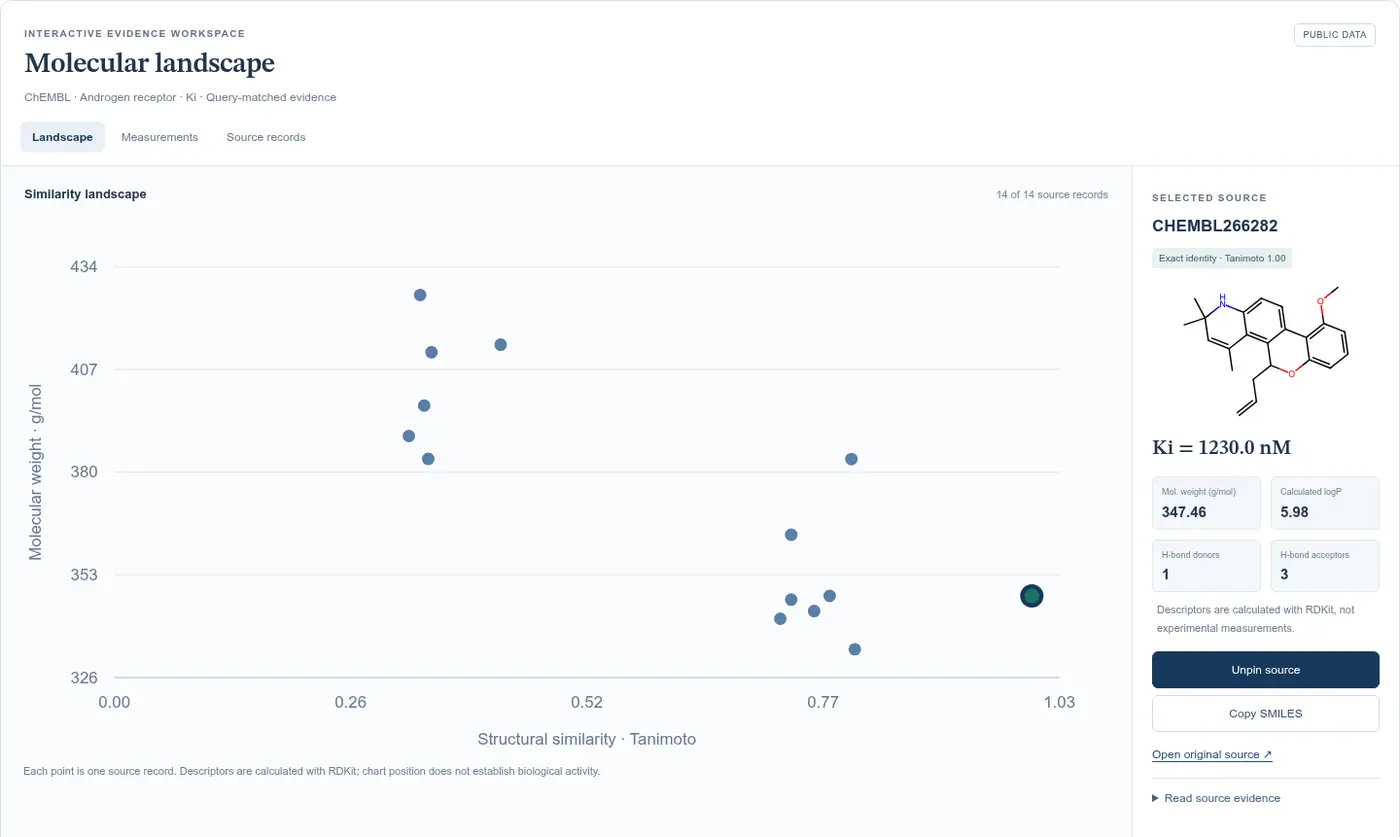
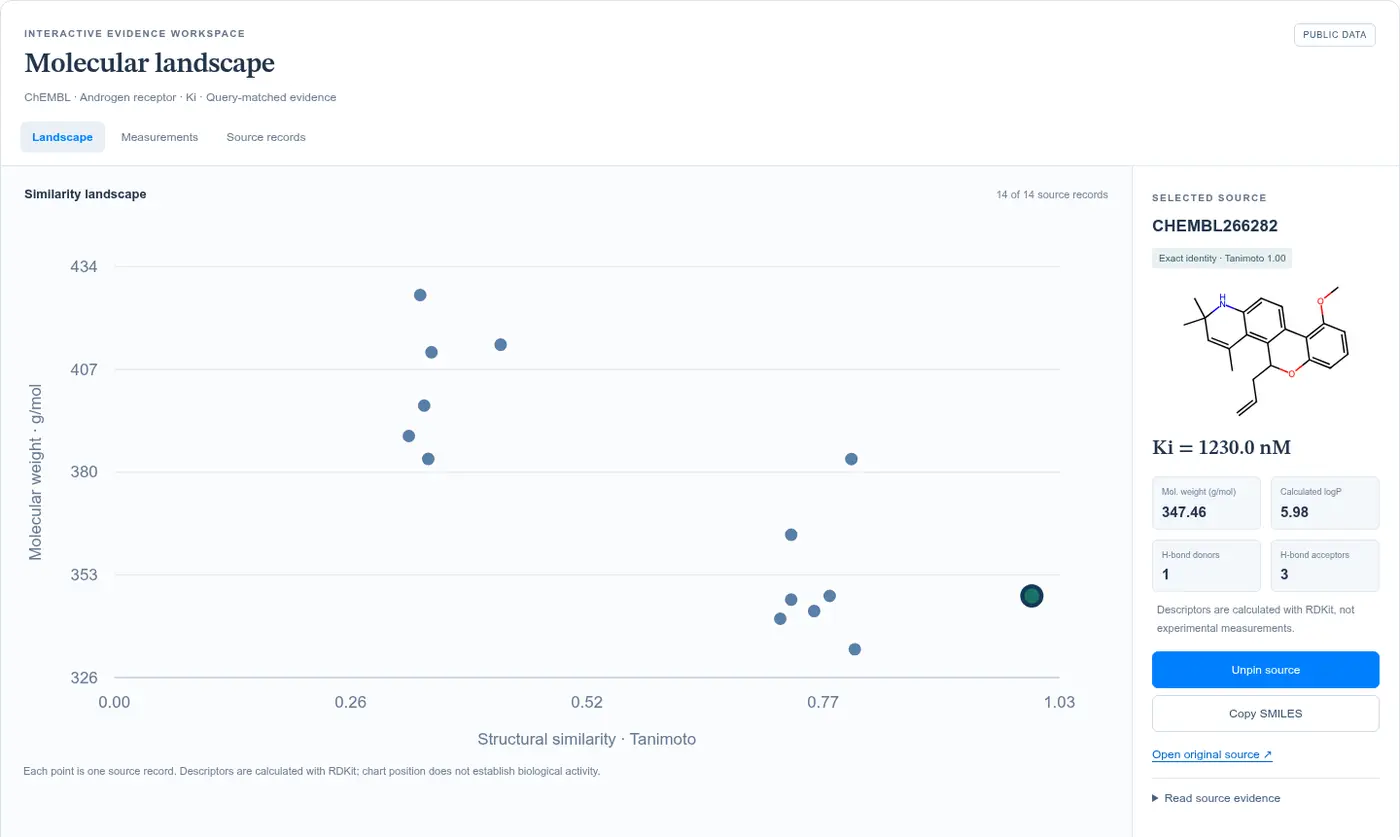
Deploying to gh-pages from @ aralcimcim/aralcimcim.github.io@334273545612d0a32a05c3c71e3aa43ca3021812 🚀

Changed region(s): [[0.7986, 0.7766, 1.0, 0.8387], [0.8293, 0.9008, 0.8907, 0.9319], [0.0307, 0.1553, 0.0614, 0.1864]]

diff --git a/assets/jupyter/blog.ipynb.html b/assets/jupyter/blog.ipynb.html
@@ -1,4 +1,4 @@
-<!DOCTYPE html> <html lang="en"> <head><meta charset="utf-8"/> <meta content="width=device-width, initial-scale=1.0" name="viewport"/> <title>jekyll-jupyter-notebook20261022-3269-c7zyde</title><script src="https://cdnjs.cloudflare.com/ajax/libs/require.js/2.1.10/require.min.js"></script> <style type="text/css">
+<!DOCTYPE html> <html lang="en"> <head><meta charset="utf-8"/> <meta content="width=device-width, initial-scale=1.0" name="viewport"/> <title>jekyll-jupyter-notebook20261022-3711-ae4uvq</title><script src="https://cdnjs.cloudflare.com/ajax/libs/require.js/2.1.10/require.min.js"></script> <style type="text/css">
     pre { line-height: 125%; }
 td.linenos .normal { color: inherit; background-color: transparent; padding-left: 5px; padding-right: 5px; }
 span.linenos { color: inherit; background-color: transparent; padding-left: 5px; padding-right: 5px; }

diff --git a/assets/css/academic.css b/assets/css/academic.css
@@ -8,8 +8,8 @@
 
 html:root,
 html[data-theme="light"] {
-  --global-theme-color: #18385c !important;
-  --global-hover-color: #254e78 !important;
+  --global-theme-color: #0080fe !important;
+  --global-hover-color: #0066cb !important;
   --global-hover-text-color: #ffffff !important;
   --global-text-color: #202c39 !important;
   --global-bg-color: #ffffff !important;
@@ -34,17 +34,17 @@ html body h4 {
   font-weight: 600;
   letter-spacing: -0.02em;
   line-height: 1.25;
-  color: #18385c;
+  color: #0080fe;
 }
 
 html body a {
-  color: #18385c;
+  color: #0080fe;
   text-underline-offset: 0.19em;
 }
 
 html body a:hover,
 html body a:focus-visible {
-  color: #254e78;
+  color: #0066cb;
 }
 
 html body .post-title {
